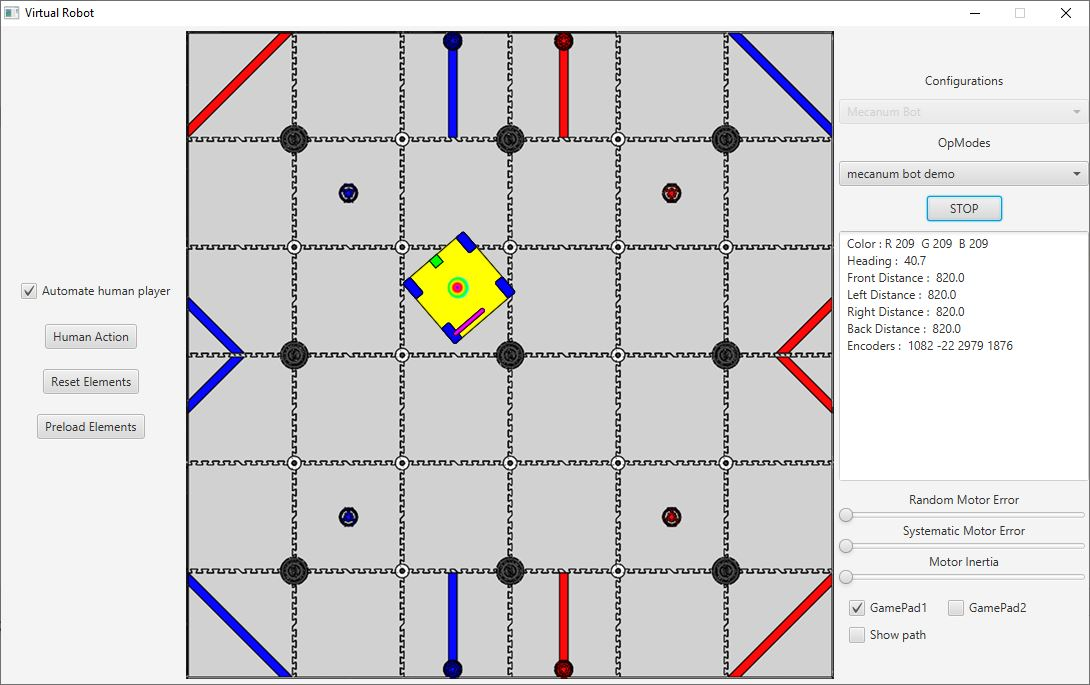
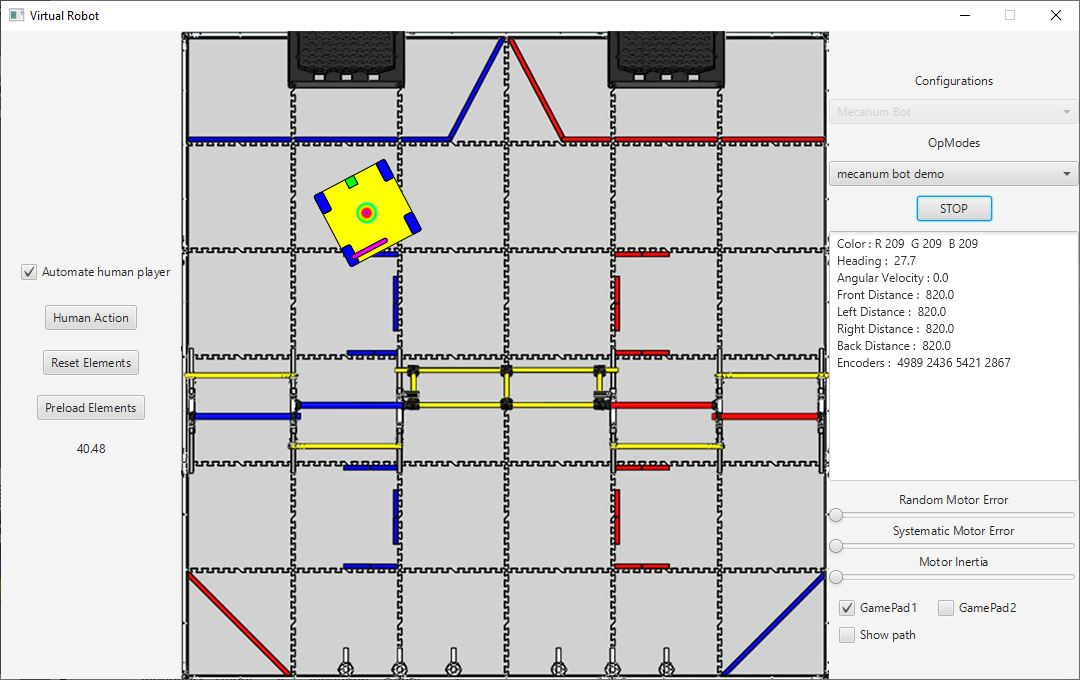
Added CenterStage game with backdrops and truss legs

diff --git a/Controller/src/virtual_robot/games/CenterStage.java b/Controller/src/virtual_robot/games/CenterStage.java
@@ -1,0 +1,144 @@
+package virtual_robot.games;
+
+import javafx.scene.paint.Color;
+import javafx.scene.paint.CycleMethod;
+import javafx.scene.paint.LinearGradient;
+import javafx.scene.paint.Stop;
+import org.dyn4j.dynamics.Body;
+import org.dyn4j.dynamics.BodyFixture;
+import org.dyn4j.geometry.Vector2;
+import org.dyn4j.world.NarrowphaseCollisionData;
+import org.dyn4j.world.listener.CollisionListenerAdapter;
+import virtual_robot.controller.Game;
+import virtual_robot.controller.VirtualField;
+import virtual_robot.controller.VirtualGameElement;
+import virtual_robot.game_elements.classes.*;
+
+public class CenterStage extends Game {
+
+    public static final Vector2[] BACKDROP_POSITIONS_INCHES = new Vector2[]{
+            new Vector2(-35, 0.5*VirtualField.FIELD_WIDTH_INCHES - 6.625),       // Blue Side
+            new Vector2(36, 0.5*VirtualField.FIELD_WIDTH_INCHES - 6.625)      // Red Side
+    };
+
+    public static final Vector2[] TRUSS_LEG_POSITIONS_INCHES = new Vector2[]{
+            new Vector2(-0.5*VirtualField.FIELD_WIDTH_INCHES + 2, -2),
+            new Vector2(-0.5*VirtualField.FIELD_WIDTH_INCHES + 2, -22),
+            new Vector2(-47, -2), new Vector2(-47, -22),
+            new Vector2(-23.5, -2), new Vector2(-23.5, -22),
+            new Vector2(24, -2), new Vector2(24, -22),
+            new Vector2(48, -2), new Vector2(48, -22),
+            new Vector2(0.5*VirtualField.FIELD_WIDTH_INCHES - 1.5, -2),
+            new Vector2(0.5*VirtualField.FIELD_WIDTH_INCHES - 1.5, -22)
+    };
+
+
+    private boolean humanPlayerActive = false;
+
+    @Override
+    public void initialize() {
+        //Calling the super method causes the game elements to be created, populating the gameElements list.
+        super.initialize();
+
+        //Assign the game elements to the appropriate static final lists.
+        for (VirtualGameElement e: gameElements){
+            if (e instanceof Backdrop){
+                Backdrop.backdrops.add((Backdrop)e);
+            } else if (e instanceof TrussLeg){
+                TrussLeg.trussLegs.add((TrussLeg)e);
+            }
+        }
+
+        Backdrop.backdrops.get(0).setLocationInches(BACKDROP_POSITIONS_INCHES[0]);
+        Backdrop.backdrops.get(0).setOnField(true);
+        Backdrop.backdrops.get(1).setLocationInches(BACKDROP_POSITIONS_INCHES[1]);
+        Backdrop.backdrops.get(1).setOnField(true);
+
+        for (int i=0; i<12; i++){
+            TrussLeg.trussLegs.get(i).setLocationInches(TRUSS_LEG_POSITIONS_INCHES[i]);
+            TrussLeg.trussLegs.get(i).setOnField(true);
+        }
+
+
+        /*
+         * Add a collision listener to implement "special" handling of certain types of collision. For example,
+         * this includes collisions involving rings that are stacked (to cause the stack to scatter). It should not
+         * include collisions resulting in the robot controlling a game element: that should be handled within
+         * the specific VirtualBot implementations.
+         */
+        world.addCollisionListener(new CollisionListenerAdapter<Body, BodyFixture>(){
+            @Override
+            public boolean collision(NarrowphaseCollisionData<Body, BodyFixture> collision) {
+                return handleNarrowPhaseCollision(collision);
+            }
+        });
+
+    }
+
+
+    /**
+     * Narrowphase Collision event handler
+     * This can be used for game element--game element collisions, as needed.
+     * Robot--game element collisions should be handled in the specific robot config class, not here.
+     *
+     * For the current game implementation, no special handling of game element--game element collisions is needed;
+     * the default handling by the physics engine suffices.
+     *
+     * However, this method can be useful for logging purposes during debugging.
+     */
+    private boolean handleNarrowPhaseCollision(NarrowphaseCollisionData<Body, BodyFixture> collision){
+
+        return true;
+    }
+
+    /*
+     * Set/Reset all game elements to their initial positions
+     */
+    @Override
+    public void resetGameElements() {
+
+        Backdrop.backdrops.get(0).setLocationInches(BACKDROP_POSITIONS_INCHES[0]);
+        Backdrop.backdrops.get(0).setOnField(true);
+        Backdrop.backdrops.get(1).setLocationInches(BACKDROP_POSITIONS_INCHES[1]);
+        Backdrop.backdrops.get(1).setOnField(true);
+
+        for (int i=0; i<12; i++){
+            TrussLeg.trussLegs.get(i).setLocationInches(TRUSS_LEG_POSITIONS_INCHES[i]);
+            TrussLeg.trussLegs.get(i).setOnField(true);
+        }
+
+
+        // Simulation isn't running when this method is called, so explicit display update required
+        updateDisplay();
+    }
+
+    /**
+     * Freight Frenzy effectively does use a human player, so return true.
+     * @return
+     */
+    @Override
+    public boolean hasHumanPlayer() {
+        return false;
+    }
+
+    @Override
+    public boolean isHumanPlayerAuto() {
+        return humanPlayerActive;
+    }
+
+    @Override
+    public void setHumanPlayerAuto(boolean selected) {
+        humanPlayerActive = selected;
+    }
+
+    /**
+     * Update the human player state. If humanPlaterActive is true, this method will be called once during
+     * each iteration of the game loop. Otherwise, it will be called during the game loop only if
+     * humanPlayerActionRequested is true (and that is set using the Human Action button).
+     * @param millis milliseconds since the previous update
+     */
+    @Override
+    public void updateHumanPlayerState(double millis) {
+    }
+
+}

diff --git a/Controller/src/virtual_robot/game_elements/classes/TrussLeg.java b/Controller/src/virtual_robot/game_elements/classes/TrussLeg.java
@@ -1,0 +1,64 @@
+package virtual_robot.game_elements.classes;
+
+import org.dyn4j.collision.CategoryFilter;
+import org.dyn4j.dynamics.Body;
+import org.dyn4j.geometry.MassType;
+import virtual_robot.controller.Filters;
+import virtual_robot.controller.GameElementConfig;
+import virtual_robot.controller.VirtualField;
+import virtual_robot.controller.VirtualGameElement;
+import virtual_robot.dyn4j.Dyn4jUtil;
+import virtual_robot.dyn4j.FixtureData;
+import virtual_robot.games.CenterStage;
+import virtual_robot.games.FreightFrenzy;
+
+import java.util.ArrayList;
+import java.util.List;
+
+@GameElementConfig(name = "TrussLeg", filename = "trussleg", forGame = CenterStage.class, numInstances = 12)
+public class TrussLeg extends VirtualGameElement {
+
+    public static final List<TrussLeg> trussLegs = new ArrayList<>();
+
+    Body trussLegBody = null;
+
+    // Category and filter for collisions
+    public static final long TRUSSLEG_CATEGORY =2048;
+    public static final CategoryFilter TRUSSLEG_FILTER = new CategoryFilter(TRUSSLEG_CATEGORY, Filters.MASK_ALL);
+
+    public void initialize(){
+        super.initialize();
+    }
+
+
+    /**
+     * The implementation of updateState for Barrier is simple: just obtain (x, y, headingRadians)
+     * from the physics body, and translate x and y from meters to pixels.
+     * @param millis milliseconds since the previous update
+     */
+    @Override
+    public void updateState(double millis) {
+        x = trussLegBody.getTransform().getTranslationX() * VirtualField.PIXELS_PER_METER;
+        y = trussLegBody.getTransform().getTranslationY() * VirtualField.PIXELS_PER_METER;
+        headingRadians = trussLegBody.getTransform().getRotationAngle();
+    }
+
+    @Override
+    public synchronized void updateDisplay() {
+        super.updateDisplay();
+    }
+
+    /**
+     * Set up the dyn4j physics body for the barrier.
+     */
+    @Override
+    public void setUpBody(){
+        /*
+         * Use Dyn4jUtil.createBody to create a Body. Infinite mass (i.e., the barrier is fixed in position)
+         */
+        elementBody = Dyn4jUtil.createBody(displayGroup, this, 0, 0,
+                new FixtureData(TRUSSLEG_FILTER, 1, 0, 0, 2, 1));
+        trussLegBody = elementBody;       // Alias for elementBody
+        trussLegBody.setMass(MassType.INFINITE);
+    }
+}

diff --git a/Controller/src/virtual_robot/game_elements/classes/Backdrop.java b/Controller/src/virtual_robot/game_elements/classes/Backdrop.java
@@ -1,0 +1,63 @@
+package virtual_robot.game_elements.classes;
+
+import org.dyn4j.collision.CategoryFilter;
+import org.dyn4j.dynamics.Body;
+import org.dyn4j.geometry.MassType;
+import virtual_robot.controller.Filters;
+import virtual_robot.controller.GameElementConfig;
+import virtual_robot.controller.VirtualField;
+import virtual_robot.controller.VirtualGameElement;
+import virtual_robot.dyn4j.Dyn4jUtil;
+import virtual_robot.dyn4j.FixtureData;
+import virtual_robot.games.CenterStage;
+import virtual_robot.games.FreightFrenzy;
+
+import java.util.ArrayList;
+import java.util.List;
+
+@GameElementConfig(name = "Backdrop", filename = "backdrop", forGame = CenterStage.class, numInstances = 2)
+public class Backdrop extends VirtualGameElement {
+
+    public static final List<Backdrop> backdrops = new ArrayList<>();
+
+    Body backdropBody = null;
+
+    // Category and filter for collisions
+    public static final long BACKDROP_CATEGORY = 1024;
+    public static final CategoryFilter BACKDROP_FILTER = new CategoryFilter(BACKDROP_CATEGORY, Filters.MASK_ALL & ~Filters.ARM);
+
+    public void initialize(){
+        super.initialize();
+    }
+
+
+    /**
+     * The implementation of updateState for Barrier is simple: just obtain (x, y, headingRadians)
+     * from the physics body, and translate x and y from meters to pixels.
+     * @param millis milliseconds since the previous update
+     */
+    @Override
+    public void updateState(double millis) {
+        x = backdropBody.getTransform().getTranslationX() * VirtualField.PIXELS_PER_METER;
+        y = backdropBody.getTransform().getTranslationY() * VirtualField.PIXELS_PER_METER;
+        headingRadians = backdropBody.getTransform().getRotationAngle();
+    }
+
+    @Override
+    public synchronized void updateDisplay() {
+        super.updateDisplay();
+    }
+
+    /**
+     * Set up the dyn4j physics body for the barrier.
+     */
+    @Override
+    public void setUpBody(){
+        /*
+         * Use Dyn4jUtil.createBody to create a Body. Infinite mass (i.e., the barrier is fixed in position)
+         */
+        elementBody = Dyn4jUtil.createBody(displayGroup, this, 0, 0, new FixtureData(BACKDROP_FILTER, 1, 0, 0));
+        backdropBody = elementBody;       // Alias for elementBody
+        backdropBody.setMass(MassType.INFINITE);
+    }
+}

diff --git a/Controller/src/virtual_robot/config/Config.java b/Controller/src/virtual_robot/config/Config.java
@@ -2,6 +2,7 @@ package virtual_robot.config;
 
 import javafx.scene.image.Image;
 import virtual_robot.controller.Game;
+import virtual_robot.games.CenterStage;
 import virtual_robot.games.FreightFrenzy;
 import virtual_robot.games.NoGame;
 import virtual_robot.games.UltimateGoal;
@@ -46,7 +47,7 @@ public class Config {
      * Define the game.  This must match the forGame attribute of the GameElementConfig annotation
      * on the VirtualGameElement implementations.
      */
-    public static final Game GAME = new NoGame();
+    public static final Game GAME = new CenterStage();
 
     /**
      * Friction coefficient between field and robot wheels. A very high value will minimize the effect

diff --git a/Controller/src/virtual_robot/robots/classes/FreightBot.java b/Controller/src/virtual_robot/robots/classes/FreightBot.java
@@ -121,7 +121,7 @@ public class FreightBot extends MecanumPhysicsBase implements ControlsElements {
 
     private CategoryFilter ARM_FILTER = new CategoryFilter(Filters.ARM,
             Filters.MASK_ALL & ~Barrier.BARRIER_CATEGORY & ~ShippingHub.HUB_CATEGORY
-                    & ~Filters.CHASSIS & ~Filters.ARM);
+                    & ~Filters.CHASSIS & ~Filters.ARM & ~Backdrop.BACKDROP_CATEGORY);
 
     private CategoryFilter ROTOR_FILTER = new CategoryFilter(Carousel.CAROUSEL_SPINNER_CATEGORY, Carousel.CAROUSEL_CATEGORY);
 

diff --git a/README.md b/README.md
@@ -1,6 +1,9 @@
 # A 2D simulator to help beginning Java programmers learn to program for FTC Robotics.
 
-New:  A Kiwi-Drive robot configuration with three omni wheels arranged around a 16 inch diameter circular chassis.
+New:  CenterStage field image added. Physics set up for backdrops and truss legs so that they serve as barriers to 
+robot motion.
+
+Also: A Kiwi-Drive robot configuration with three omni wheels arranged around a 16 inch diameter circular chassis.
 
 Want to use virtual_robot to try out AcmeRobotics RoadRunner? Refer to the 
 [Road-Runner-Quickstart-Instructions](Road-Runner-Quickstart-Instructions.pdf) pdf.
